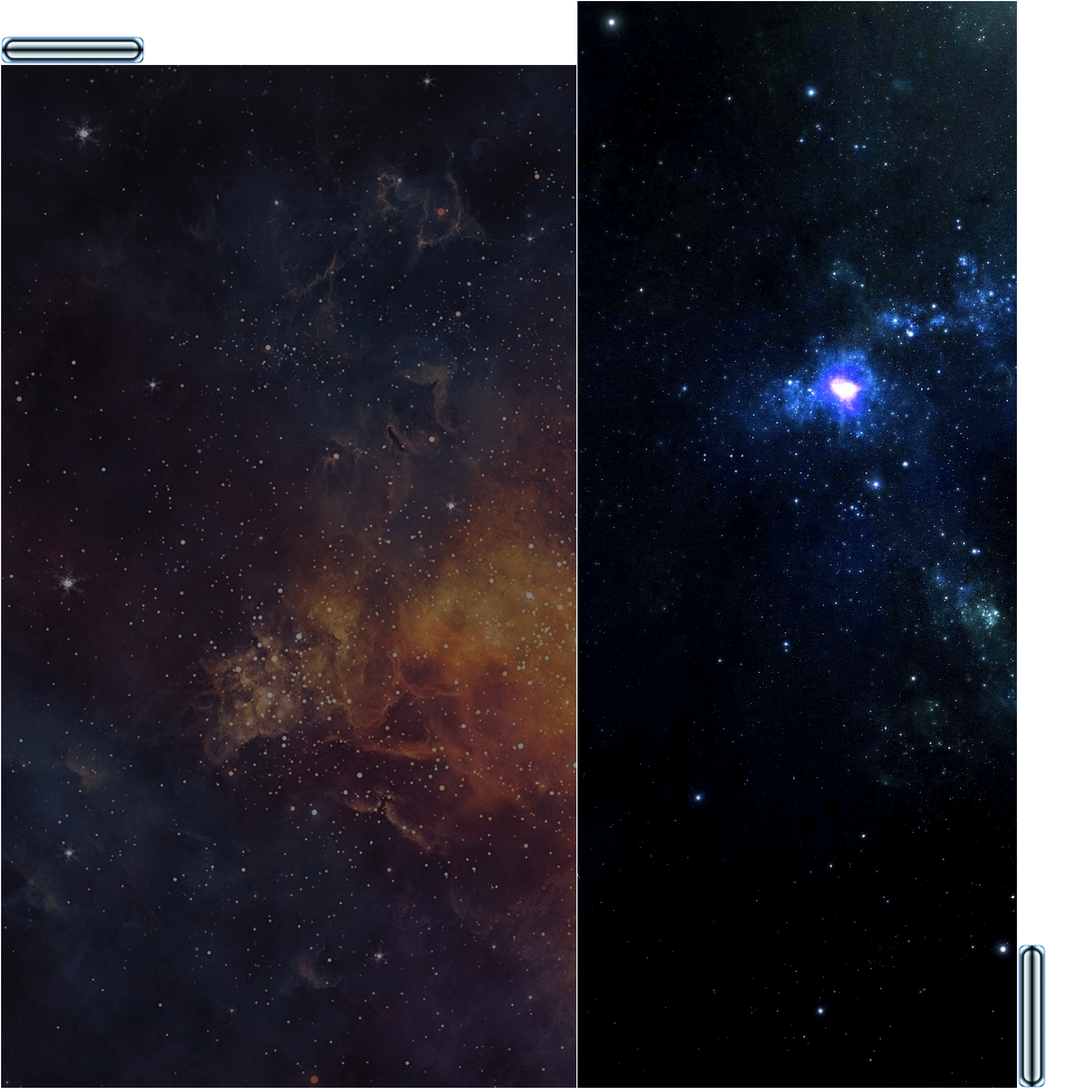
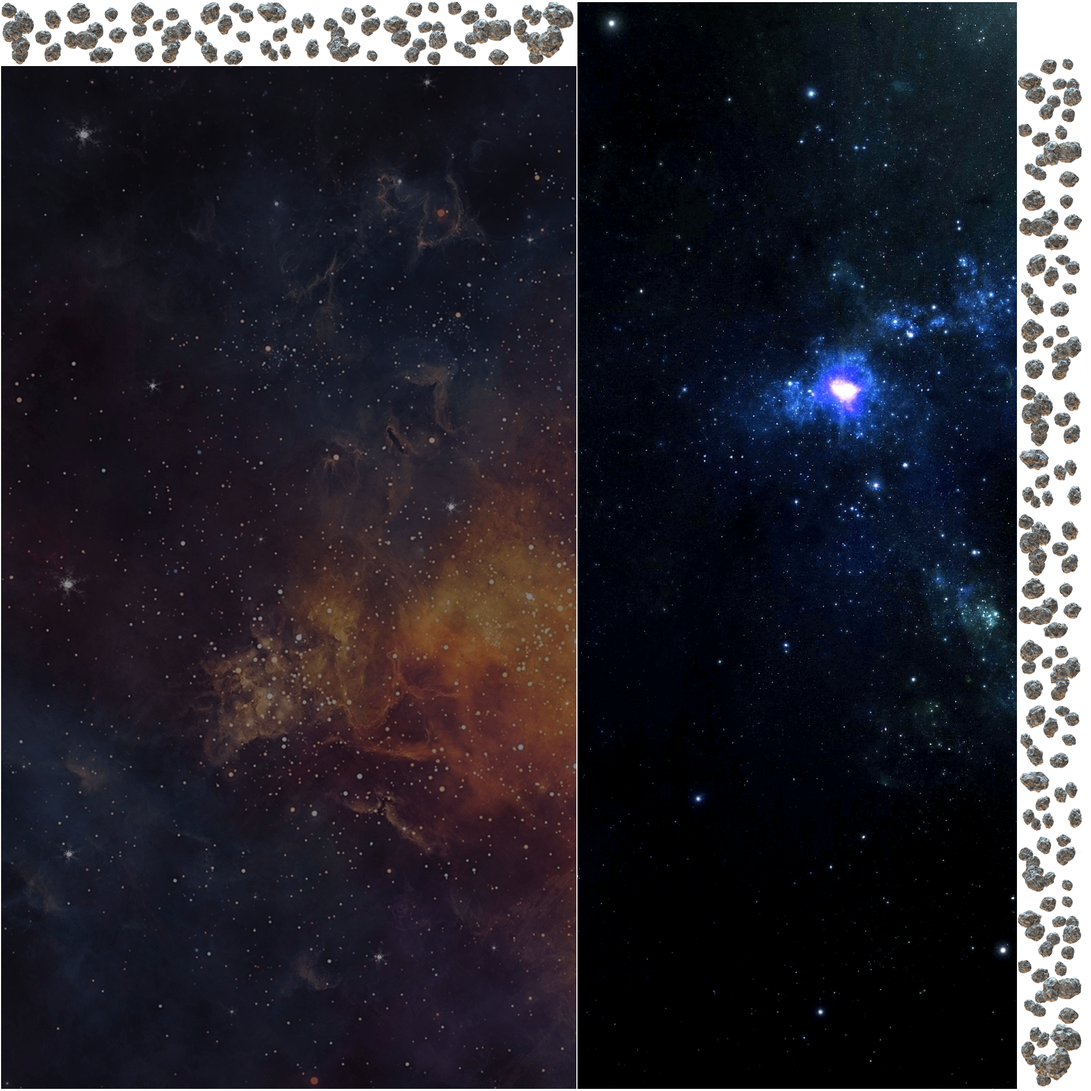
Исправил коллизии с несколькими объектами сразу

diff --git a/core/src/com/NullPointer/swipeos/Scripts/GameObjectsScripts/PlayerScript.java b/core/src/com/NullPointer/swipeos/Scripts/GameObjectsScripts/PlayerScript.java
@@ -140,22 +140,22 @@ public class PlayerScript implements IScript {
         }
     }
 
-    public void moveCharacter(float delta){
+    public void moveCharacter(float delta) {
         //Двигаем персонажа
         playerTransformComponent.x += playerSpeed.x * delta;
         playerTransformComponent.y += playerSpeed.y * delta;
 
         //Замедляем персонажа из-за трения
-        if(playerSpeed.x > 0){
+        if (playerSpeed.x > 0) {
             playerSpeed.x -= friction;
         }
-        if(playerSpeed.x < 0 && isX_AxisNegative){
+        if (playerSpeed.x < 0 && isX_AxisNegative) {
             playerSpeed.x += friction;
         }
-        if(playerSpeed.y > 0){
+        if (playerSpeed.y > 0) {
             playerSpeed.y -= friction;
         }
-        if(playerSpeed.y < 0 && isY_AxisNegative){
+        if (playerSpeed.y < 0 && isY_AxisNegative) {
             playerSpeed.y += friction;
         }
 

diff --git a/core/src/com/NullPointer/swipeos/utils/LevelLoader.java b/core/src/com/NullPointer/swipeos/utils/LevelLoader.java
@@ -89,7 +89,7 @@ public class LevelLoader {
 
     private void loadLevel_1(){
         int level = 1;
-        fillLevelWalls(2, level);
+        fillLevelWalls(4, level);
         fillLevelPortal(level);
         setLevelStopWall(level);
         setLevelStartCoordinate(level);
@@ -97,7 +97,7 @@ public class LevelLoader {
 
     private void loadLevel_2(){
         int level = 2;
-        fillLevelWalls(2, level);
+        fillLevelWalls(4, level);
         fillLevelStars(3, level);
         fillLevelPortal(level);
         setLevelStopWall(level);
@@ -106,7 +106,7 @@ public class LevelLoader {
 
     private void loadLevel_3(){
         int level = 3;
-        fillLevelWalls(5, level);
+        fillLevelWalls(13, level);
         fillLevelStars(3, level);
         fillLevelPortal(level);
         setLevelStopWall(level);

diff --git a/core/src/com/NullPointer/swipeos/utils/CollisionManager.java b/core/src/com/NullPointer/swipeos/utils/CollisionManager.java
@@ -62,6 +62,8 @@ public class CollisionManager {
                     }
                     playerScript.playerSpeed.x = -playerScript.playerSpeed.x;
                     playerScript.playerSpeed.y = -playerScript.playerSpeed.y;
+
+                    break;
                 }
             }
             for (Iterator<Star> it = levelLoader.getLevelStars().iterator(); it.hasNext(); ) {
